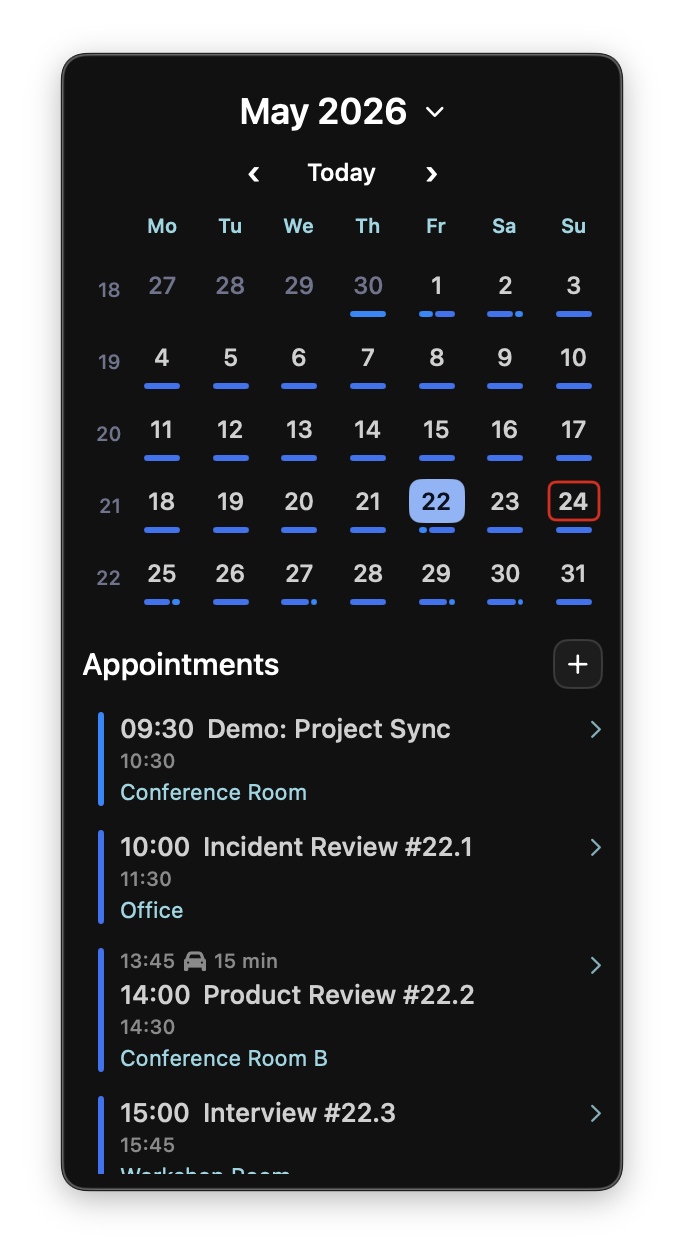
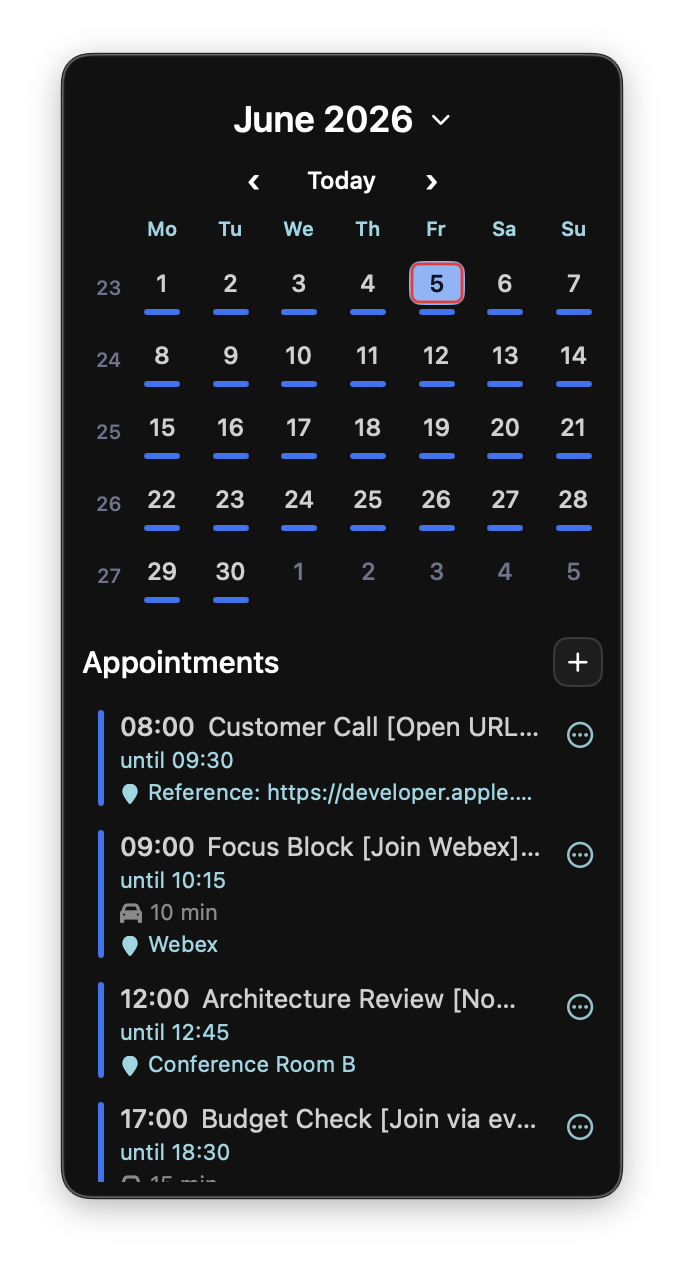
feat(calendar): add event quick actions

diff --git a/Sources/Soon/App/SoonCalendarEventActionFactory.swift b/Sources/Soon/App/SoonCalendarEventActionFactory.swift
@@ -1,0 +1,125 @@
+import AppKit
+import EasyBarCalendarUI
+import EasyBarShared
+import Foundation
+
+/// Builds host-side quick actions for Soon calendar appointment rows.
+enum SoonCalendarEventActionFactory {
+  /// Returns the default action set used by Soon calendar popups.
+  static func makeActions() -> CalendarEventActions {
+    CalendarEventActions(
+      copyDetails: { event in
+        copyDetails(for: event)
+      },
+      openURL: { event in
+        openURL(for: event)
+      },
+      openCalendar: { _ in
+        openCalendarApp()
+      }
+    )
+  }
+
+  /// Copies one user-facing event summary to the general pasteboard.
+  private static func copyDetails(for event: CalendarAgentEvent) {
+    let pasteboard = NSPasteboard.general
+    pasteboard.clearContents()
+    pasteboard.setString(detailText(for: event), forType: .string)
+  }
+
+  /// Opens the URL attached to one event when it is valid.
+  private static func openURL(for event: CalendarAgentEvent) {
+    guard
+      let rawURL = event.url?.trimmingCharacters(in: .whitespacesAndNewlines),
+      !rawURL.isEmpty,
+      let url = URL(string: rawURL)
+    else {
+      return
+    }
+
+    NSWorkspace.shared.open(url)
+  }
+
+  /// Opens Calendar.app.
+  private static func openCalendarApp() {
+    guard let appURL = NSWorkspace.shared.urlForApplication(withBundleIdentifier: "com.apple.iCal")
+    else { return }
+
+    NSWorkspace.shared.open(appURL)
+  }
+
+  /// Builds one readable detail string for copying.
+  private static func detailText(for event: CalendarAgentEvent) -> String {
+    var lines: [String] = [event.title]
+
+    lines.append("When: \(formattedDateRange(for: event))")
+
+    if let calendarName = normalizedText(event.calendarName) {
+      lines.append("Calendar: \(calendarName)")
+    }
+
+    if let location = normalizedText(event.location) {
+      lines.append("Location: \(location)")
+    }
+
+    if let url = normalizedText(event.url) {
+      lines.append("URL: \(url)")
+    }
+
+    return lines.joined(separator: "\n")
+  }
+
+  /// Formats the visible start and end date for one event.
+  private static func formattedDateRange(for event: CalendarAgentEvent) -> String {
+    if event.isAllDay {
+      return formattedAllDayRange(for: event)
+    }
+
+    let start = dateTimeFormatter.string(from: event.startDate)
+    let end = dateTimeFormatter.string(from: event.endDate)
+
+    guard start != end else { return start }
+    return "\(start) - \(end)"
+  }
+
+  /// Formats an all-day event date range.
+  private static func formattedAllDayRange(for event: CalendarAgentEvent) -> String {
+    let calendar = Calendar.autoupdatingCurrent
+    let start = calendar.startOfDay(for: event.startDate)
+    let visibleEnd = calendar.date(byAdding: .day, value: -1, to: event.endDate) ?? event.endDate
+    let normalizedEnd = max(start, calendar.startOfDay(for: visibleEnd))
+    let startText = dateFormatter.string(from: start)
+    let endText = dateFormatter.string(from: normalizedEnd)
+
+    guard startText != endText else { return "All day, \(startText)" }
+    return "All day, \(startText) - \(endText)"
+  }
+
+  /// Normalizes optional text and drops empty values.
+  private static func normalizedText(_ value: String?) -> String? {
+    guard let value else { return nil }
+
+    let trimmed = value.trimmingCharacters(in: .whitespacesAndNewlines)
+    return trimmed.isEmpty ? nil : trimmed
+  }
+
+  /// Date formatter used for all-day copied summaries.
+  private static let dateFormatter: DateFormatter = {
+    let formatter = DateFormatter()
+    formatter.locale = .autoupdatingCurrent
+    formatter.calendar = .autoupdatingCurrent
+    formatter.dateStyle = .medium
+    formatter.timeStyle = .none
+    return formatter
+  }()
+
+  /// Date-time formatter used for timed copied summaries.
+  private static let dateTimeFormatter: DateFormatter = {
+    let formatter = DateFormatter()
+    formatter.locale = .autoupdatingCurrent
+    formatter.calendar = .autoupdatingCurrent
+    formatter.dateStyle = .medium
+    formatter.timeStyle = .short
+    return formatter
+  }()
+}

diff --git a/Sources/Soon/Calendar/SoonCalendarService.swift b/Sources/Soon/Calendar/SoonCalendarService.swift
@@ -396,6 +396,7 @@ final class SoonCalendarService {
       calendarName: sourceCalendar?.title,
       calendarColorHex: colorHex(for: sourceCalendar?.cgColor),
       location: normalizedOptionalText(event.location),
+      url: normalizedEventURLText(for: event),
       alertOffsetsSeconds: alertOffsets(for: event),
       isHoliday: isHoliday(event),
       hasAlert: !alertOffsets(for: event).isEmpty,
@@ -564,6 +565,7 @@ final class SoonCalendarService {
               calendarName: event.calendarName,
               calendarColorHex: event.calendarColorHex,
               location: event.location,
+              url: event.url,
               travelTimeSeconds: event.travelTimeSeconds
             )
           }
@@ -622,6 +624,7 @@ final class SoonCalendarService {
             calendarName: event.calendarName,
             calendarColorHex: event.calendarColorHex,
             location: event.location,
+            url: event.url,
             travelTimeSeconds: event.travelTimeSeconds
           )
         }
@@ -794,6 +797,43 @@ final class SoonCalendarService {
 
     let trimmed = value.trimmingCharacters(in: .whitespacesAndNewlines)
     return trimmed.isEmpty ? nil : trimmed
+  }
+
+  /// Normalizes an optional URL into transport-safe text.
+  private func normalizedOptionalURLText(_ value: URL?) -> String? {
+    normalizedOptionalText(value?.absoluteString)
+  }
+
+  /// Returns the best URL attached to one event.
+  private func normalizedEventURLText(for event: EKEvent) -> String? {
+    if let directURL = normalizedOptionalURLText(event.url) {
+      return directURL
+    }
+
+    return firstURLText(in: [event.location, event.notes])
+  }
+
+  /// Extracts the first URL from one of the provided text fields.
+  private func firstURLText(in values: [String?]) -> String? {
+    guard
+      let detector = try? NSDataDetector(
+        types: NSTextCheckingResult.CheckingType.link.rawValue
+      )
+    else {
+      return nil
+    }
+
+    for value in values {
+      guard let text = normalizedOptionalText(value) else { continue }
+      let range = NSRange(text.startIndex..<text.endIndex, in: text)
+      let matches = detector.matches(in: text, options: [], range: range)
+
+      if let url = matches.first?.url?.absoluteString {
+        return url
+      }
+    }
+
+    return nil
   }
 
   /// Maps one EventKit calendar into the shared filter target model.

diff --git a/Sources/Soon/App/SoonMenuBarContentView.swift b/Sources/Soon/App/SoonMenuBarContentView.swift
@@ -41,6 +41,7 @@ struct SoonMenuBarContentView: View {
         appointmentsStyle: runtimeConfig.calendar.appointmentsCalendarUIStyle,
         birthdays: runtimeConfig.calendar.birthdayCalendarUIStyle,
         emptyText: runtimeConfig.calendar.appointments.emptyText,
+        eventActions: SoonCalendarEventActionFactory.makeActions(),
         onVisibleMonthChanged: { visibleMonth in
           services.calendar.focusVisibleMonth(visibleMonth)
         },
@@ -62,6 +63,7 @@ struct SoonMenuBarContentView: View {
         appointmentsStyle: runtimeConfig.calendar.appointmentsCalendarUIStyle,
         birthdays: runtimeConfig.calendar.birthdayCalendarUIStyle,
         emptyText: runtimeConfig.calendar.appointments.emptyText,
+        eventActions: SoonCalendarEventActionFactory.makeActions(),
         onEventTap: { event in
           composerPanel.present(event: event) {
             services.calendar.refresh()

diff --git a/README.md b/README.md
@@ -377,7 +377,10 @@ The app menu contains:
 Calendar popup actions:
 
 - click `+` to create an appointment
-- click an event to edit it
+- use the action menu on an event to edit it
+- copy event details from the action menu
+- join a meeting or open an event URL when the event contains one
+- open Calendar.app from the action menu
 - use Refresh to request a fresh calendar snapshot
 - use Today to jump back to the current day in month mode
 
@@ -489,3 +492,5 @@ open dist/Soon.app
 ## License
 
 This project is licensed under the Apache 2.0 License. See the `LICENSE` file for details.
+
+